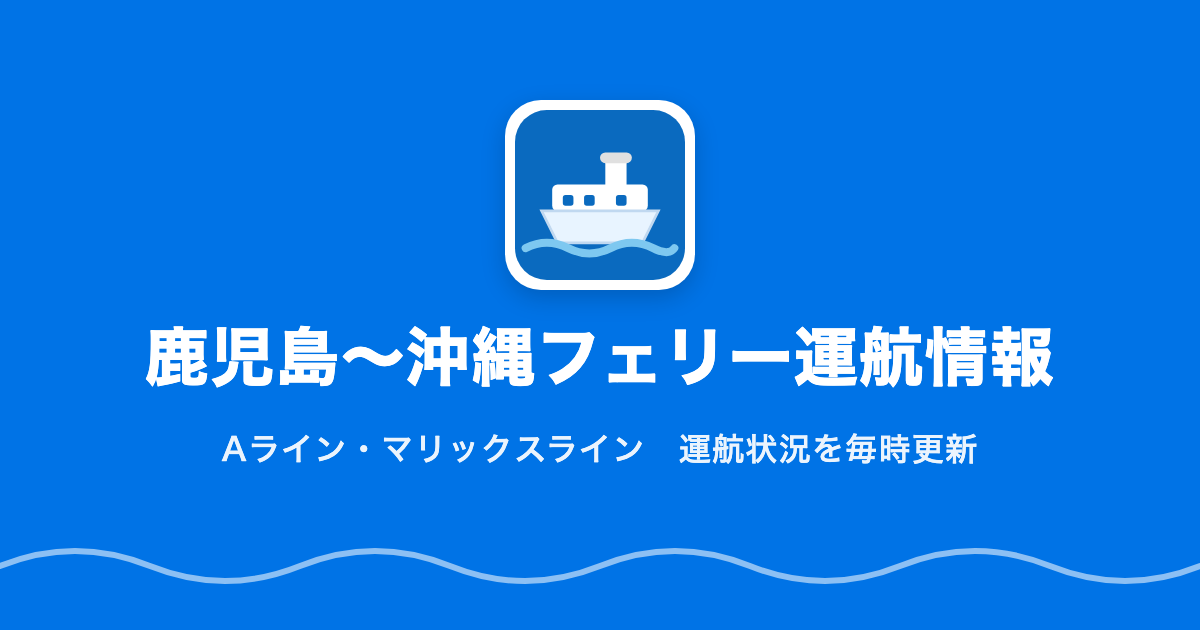
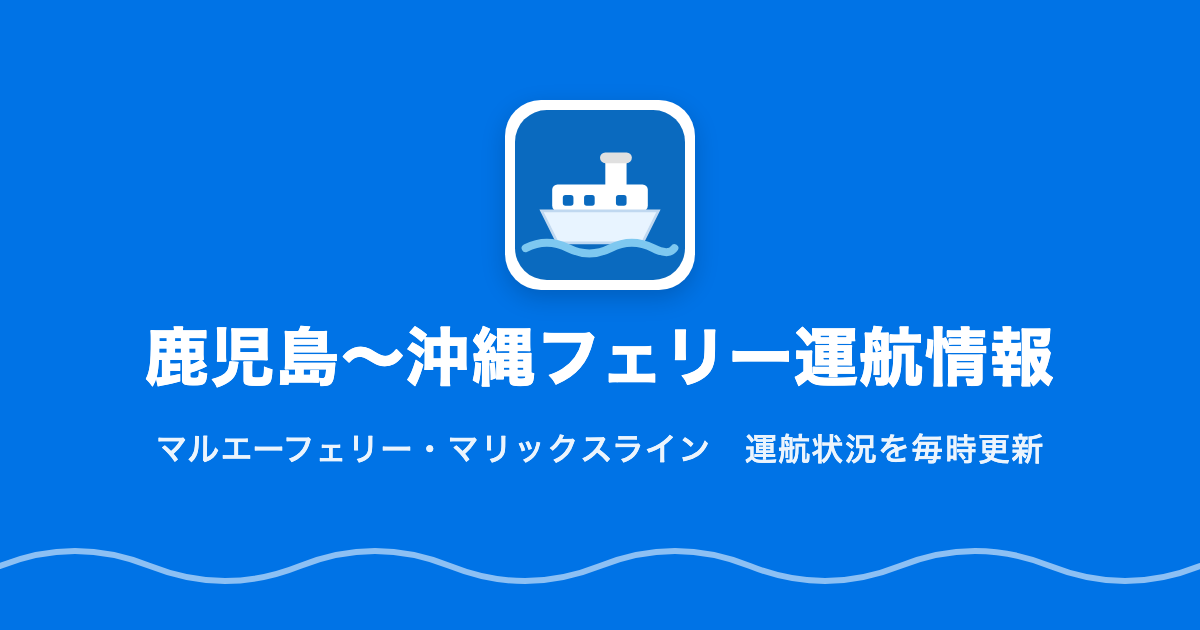
fix(app): 会社の呼び名を Aライン からマルエーフェリーにそろえる (10-og-image)
OG 画像の文字と、トップ・港別・共通の説明文。検索でよく使われる表記に合わせる。

Changed region(s): [[0.1233, 0.6635, 0.8633, 0.754]]

diff --git a/specs/10-og-image/og-image.html b/specs/10-og-image/og-image.html
@@ -75,7 +75,7 @@
             </svg>
         </div>
         <h1>鹿児島〜沖縄フェリー運航情報</h1>
-        <p>Aライン・マリックスライン　運航状況を毎時更新</p>
+        <p>マルエーフェリー・マリックスライン　運航状況を毎時更新</p>
     </div>
     <svg class="waves" viewBox="0 0 1200 60" preserveAspectRatio="none" xmlns="http://www.w3.org/2000/svg">
         <path d="M0 30 Q75 0 150 30 T300 30 T450 30 T600 30 T750 30 T900 30 T1050 30 T1200 30" fill="none" stroke="rgba(255,255,255,0.55)" stroke-width="6" stroke-linecap="round"/>

diff --git a/app/tests/Controller/StatusControllerTest.php b/app/tests/Controller/StatusControllerTest.php
@@ -345,7 +345,7 @@ class StatusControllerTest extends WebTestCase
 
         $this->assertSame('鹿児島〜沖縄・奄美大島フェリー運航情報', $crawler->filter('title')->text());
         $this->assertSame(
-            'Aライン・マリックスラインの鹿児島〜那覇・奄美大島間フェリーの最新運航状況。欠航・遅延情報を毎時更新。旅行前に出発港・到着港の運航状況をご確認ください。',
+            'マルエーフェリー・マリックスラインの鹿児島〜那覇・奄美大島間フェリーの最新運航状況。欠航・遅延情報を毎時更新。旅行前に出発港・到着港の運航状況をご確認ください。',
             $crawler->filter('meta[name="description"]')->attr('content'),
         );
     }

diff --git a/specs/10-og-image/spec.md b/specs/10-og-image/spec.md
@@ -62,6 +62,10 @@
 - **FR-007**: twitter:card を summary_large_image にすること
 - **FR-008**: 7-v1-branding の FR-008（OG 画像は出さない）はこの機能で置き換える。それ以外の OG・Twitter カード・canonical の値（7-v1-branding の FR-006・FR-007）は変えないこと
 
+**会社名の表記**
+
+- **FR-009**: 会社の呼び名は「Aライン」ではなく「マルエーフェリー」で出すこと。OG 画像の文字と、説明文（description・og:description）の両方に当てはめる。検索でよく使われる表記に合わせ、「A"LINE」のような記号入りの表記は使わない
+
 ### Key Entities
 
 - **OG 画像**: 全ページ共通の 1 枚の画像。サイトの公開ディレクトリに置き、固定の URL で取得できる。幅・高さ・代わりの文（alt）を持つ
@@ -87,5 +91,5 @@
 
 - ページごと・会社ごと・運航状況ごとに異なる OG 画像
 - 実行時に画像を作る仕組み
-- og:title・og:description などの文言の変更
+- og:title・og:description などの文言の変更（FR-009 の会社名の表記を除く）
 - SNS 側のキャッシュを消す作業（必要なら公開後に各 SNS のツールで行う）

diff --git a/specs/10-og-image/research.md b/specs/10-og-image/research.md
@@ -41,7 +41,7 @@
 
 ## R7. 画像の見た目
 
-- **Decision**: 背景は V1 のヘッダーの青（#0073e6）。中央に、ファビコンの船の絵（白い角丸の枠の中、約 200px）と、白い太字のサイト名「鹿児島〜沖縄フェリー運航情報」（約 64px）、その下に小さく「Aライン・マリックスライン　運航状況を毎時更新」。下に白い波の線。文字と絵は上下左右の端から 10% 以上内側（FR-003）
+- **Decision**: 背景は V1 のヘッダーの青（#0073e6）。中央に、ファビコンの船の絵（白い角丸の枠の中、約 200px）と、白い太字のサイト名「鹿児島〜沖縄フェリー運航情報」（約 64px）、その下に小さく「マルエーフェリー・マリックスライン　運航状況を毎時更新」。下に白い波の線。文字と絵は上下左右の端から 10% 以上内側（FR-003）
 - **Rationale**: ヘッダーと同じ青地に白い文字で、サイトを開いたときの見た目とつながる。64px のサイト名は、幅 300px に縮めても約 16px になり読める（SC-004）
 
 ## R8. テスト
